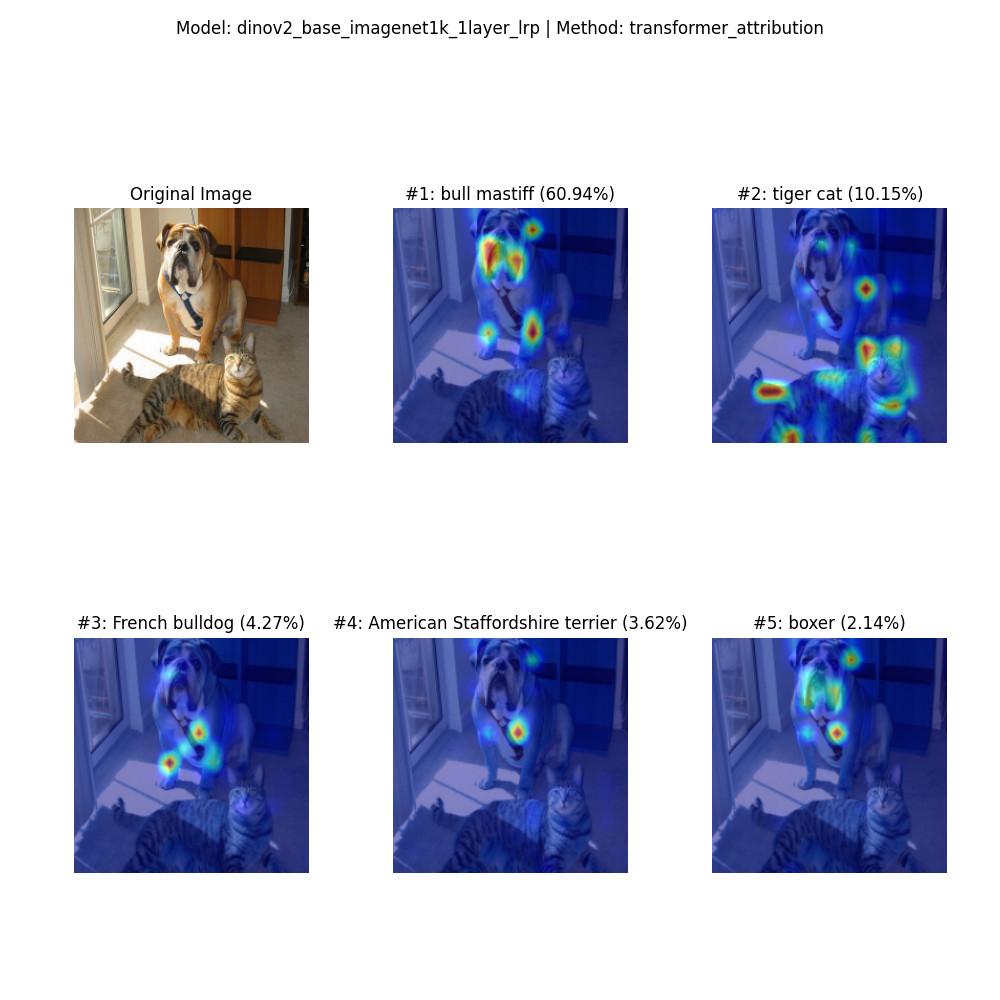
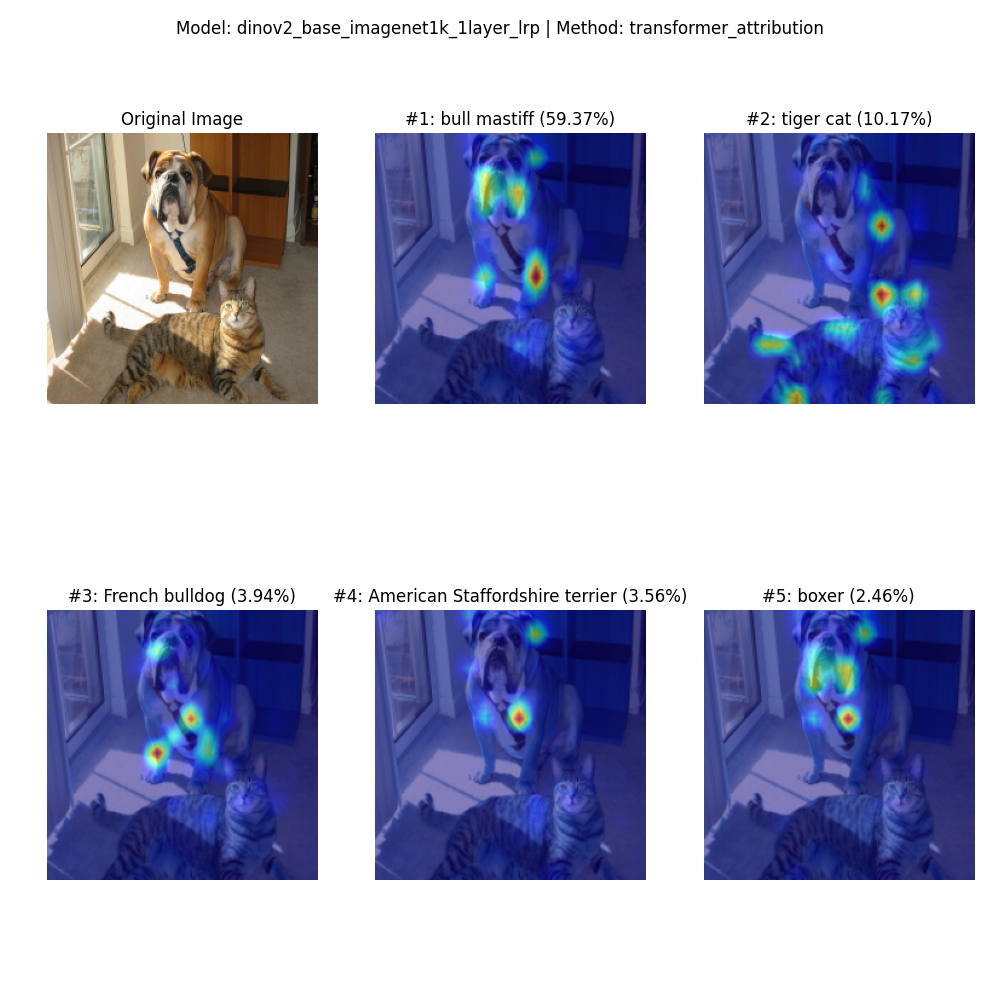
fix bug on image normalization of dinov2

diff --git a/main.py b/main.py
@@ -28,6 +28,8 @@ class ModelConfig:
     factory: Callable
     patch_size: int
     image_size: int = 224
+    normalize_mean: list[float] = (0.5, 0.5, 0.5)
+    normalize_std: list[float] = (0.5, 0.5, 0.5)
 
 
 MODEL_REGISTRY: dict[str, ModelConfig] = {
@@ -42,6 +44,8 @@ MODEL_REGISTRY: dict[str, ModelConfig] = {
     "dinov2_base_imagenet1k_1layer_lrp": ModelConfig(
         factory=dinov2_base_imagenet1k_1layer_lrp,
         patch_size=14,
+        normalize_mean=[0.485, 0.456, 0.406],
+        normalize_std=[0.229, 0.224, 0.225],
     ),
 }
 
@@ -122,7 +126,9 @@ def get_top_classes(predictions, topk=5):
         class_name = CLS2IDX[cls_idx]
         class_prob = prob[0, cls_idx].item()
         results.append((cls_idx, class_name, class_prob))
-        logger.info(f"Class: {class_name} Probability: {class_prob:.4f}")
+        logger.info(
+            f"ID {cls_idx}, Class: {class_name} , Probability: {class_prob:.4f}"
+        )
     return results
 
 
@@ -145,7 +151,11 @@ def main(model_name: str, image_path: str, method: str, use_thresholding: bool =
 
     config = MODEL_REGISTRY[model_name]
 
-    normalize = transforms.Normalize(mean=[0.5, 0.5, 0.5], std=[0.5, 0.5, 0.5])
+    # be careful about normalization values for different models
+    normalize = transforms.Normalize(
+        mean=config.normalize_mean, std=config.normalize_std
+    )
+
     transform = transforms.Compose(
         [
             transforms.Resize(256),
@@ -172,7 +182,7 @@ def main(model_name: str, image_path: str, method: str, use_thresholding: bool =
     # Create 2x2 plot: original + top-3 attributions
     fig, axs = plt.subplots(2, 3, figsize=(10, 10))
     fig.suptitle(f"Model: {model_name} | Method: {method}", fontsize=12)
-    fig.tight_layout(pad=3.0, rect=[0, 0, 1, 0.96])
+    fig.tight_layout()
 
     # Original image
     axs[0, 0].set_title("Original Image")
